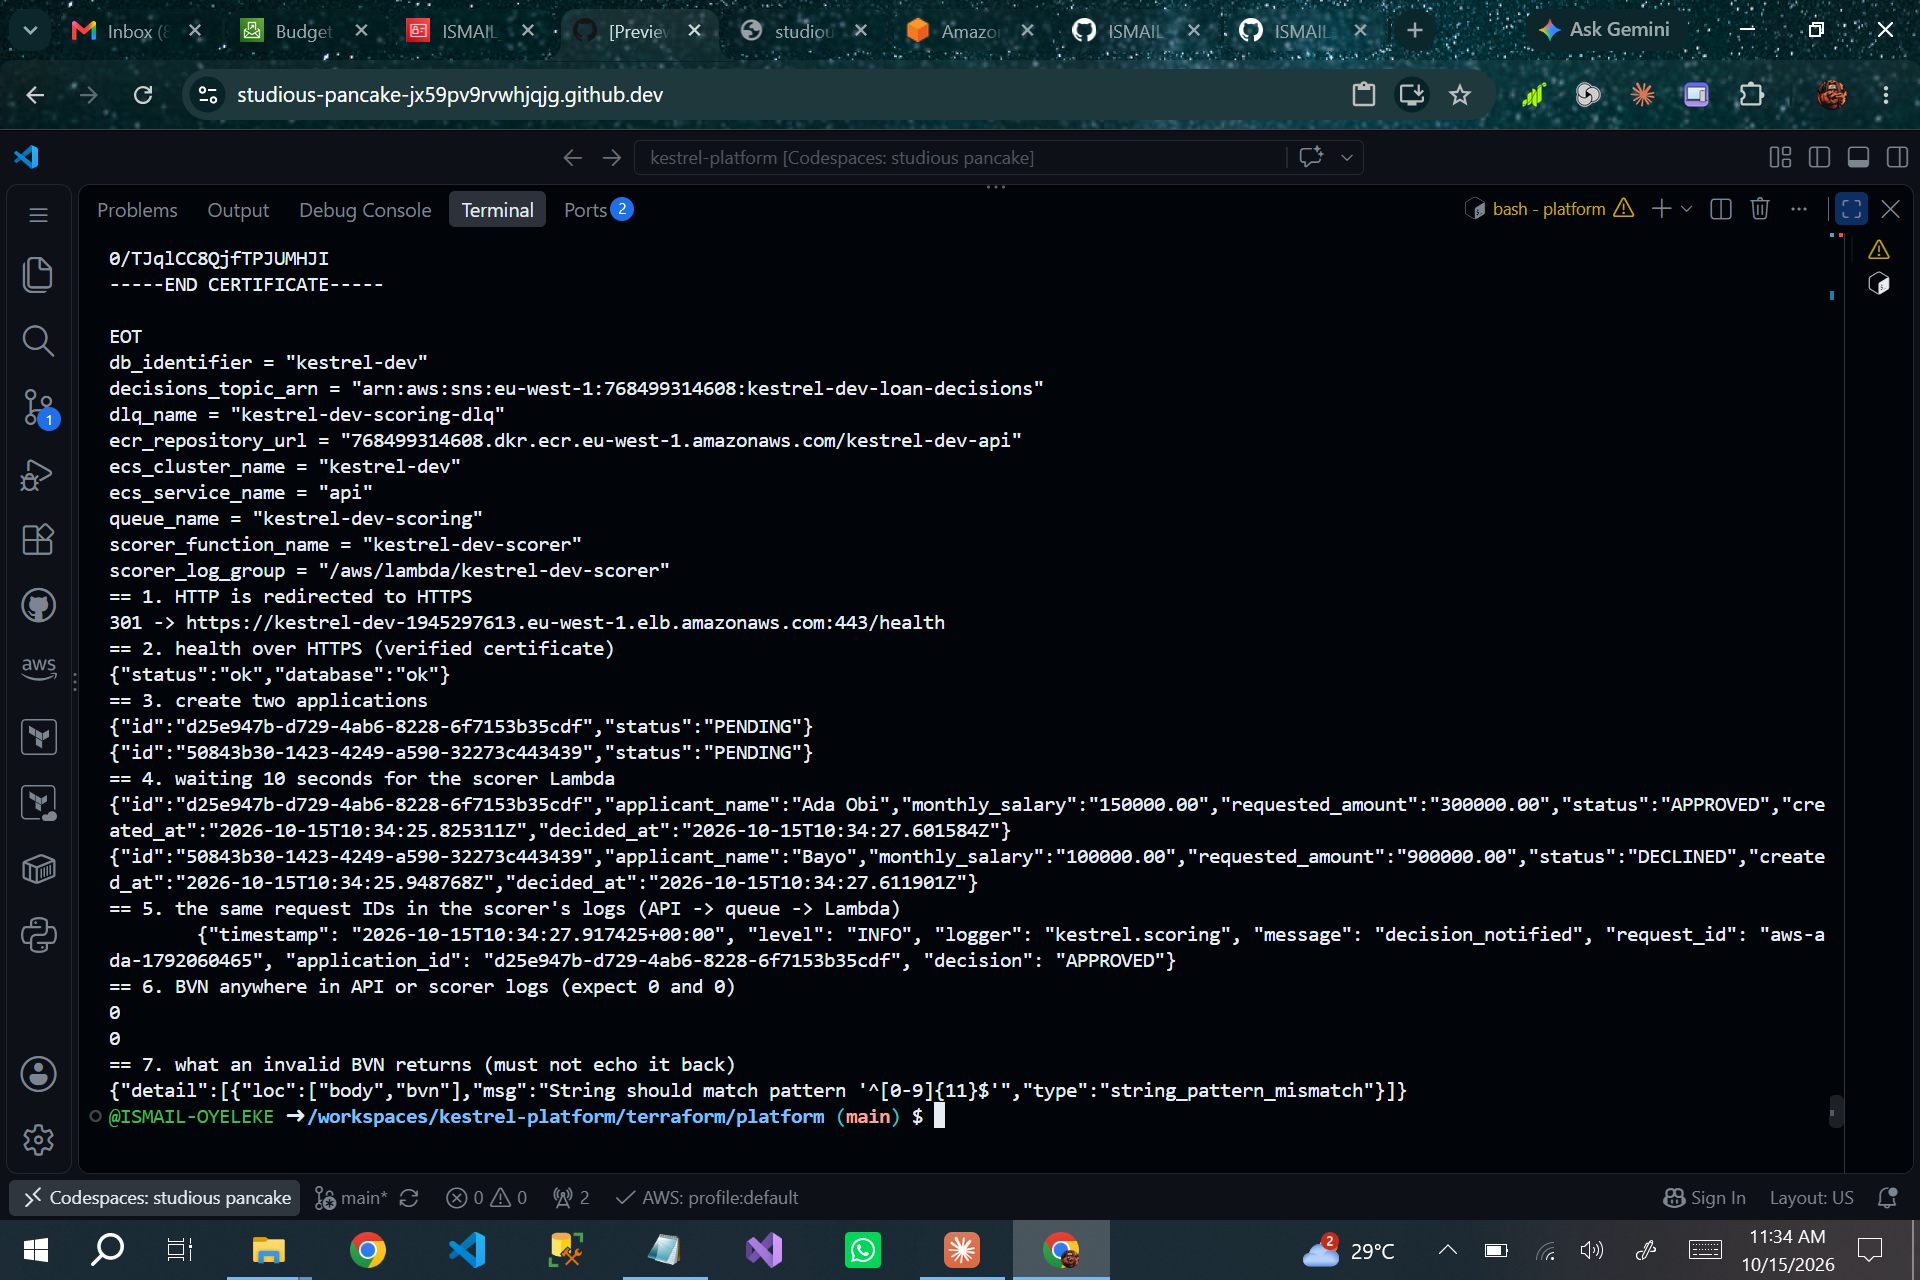
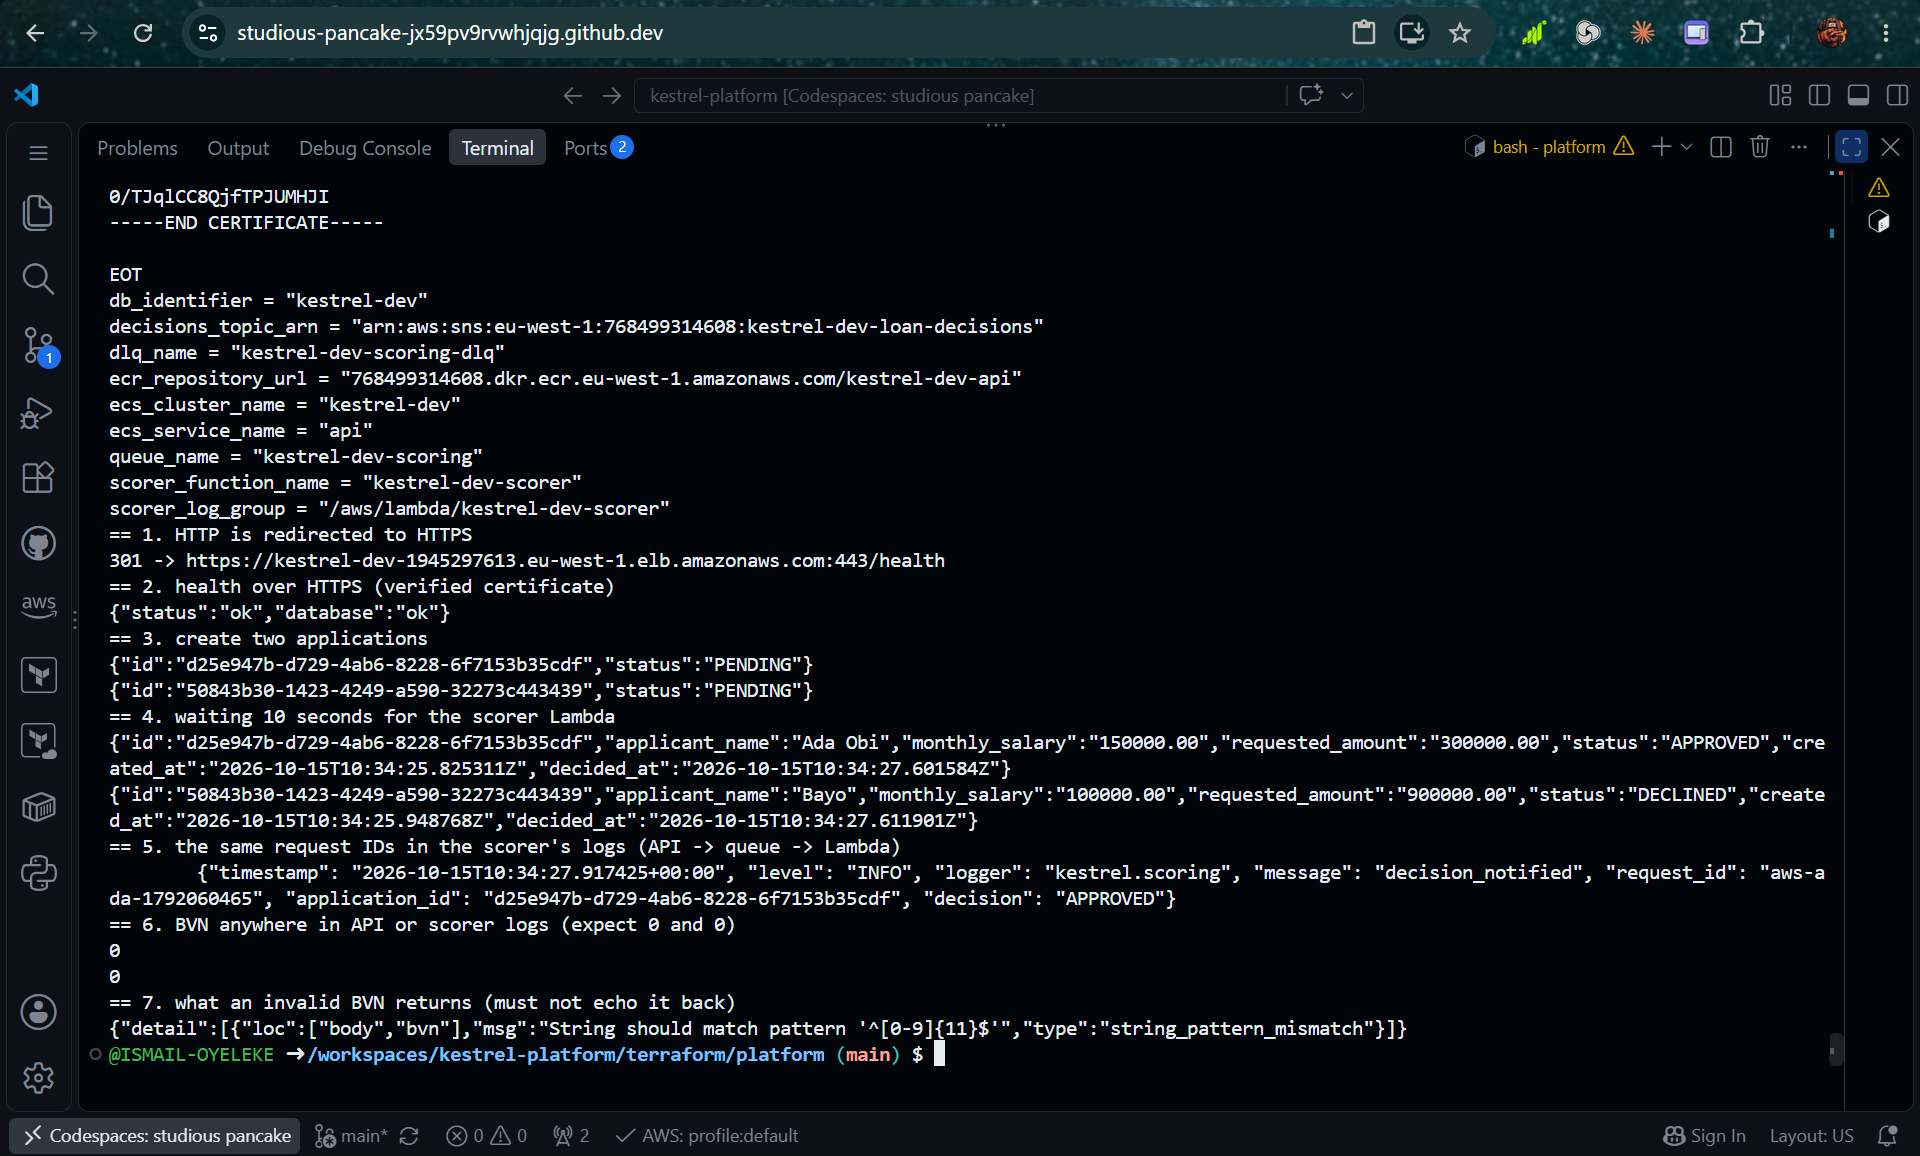
Crop evidence screenshots to the page and address bar
Removes the browser tabs and the Windows taskbar so each screenshot shows
only what it proves. The capture times stay in the evidence table and
the uncropped originals stay in git history.

Changed region(s): [[0.0, 0.0, 1.0, 1.0]]

diff --git a/docs/evidence/README.md b/docs/evidence/README.md
@@ -2,6 +2,8 @@
 
 Screenshots and command output that prove a brief requirement is met. Each file is listed with the date it was captured and the requirement it supports.
 
+Screenshots are cropped to the browser's address bar and page only; the browser tabs and the Windows taskbar are removed. The capture time in the table comes from the taskbar clock in the original, which is kept in the git history.
+
 | File | Captured | Shows | Brief item |
 |------|----------|-------|------------|
 | iam-no-access-keys.png | 15 Oct 2026, 09:37 WAT | IAM user ISMAIL_OYELEKE has 0 access keys and 0 API keys | 6.1 |
